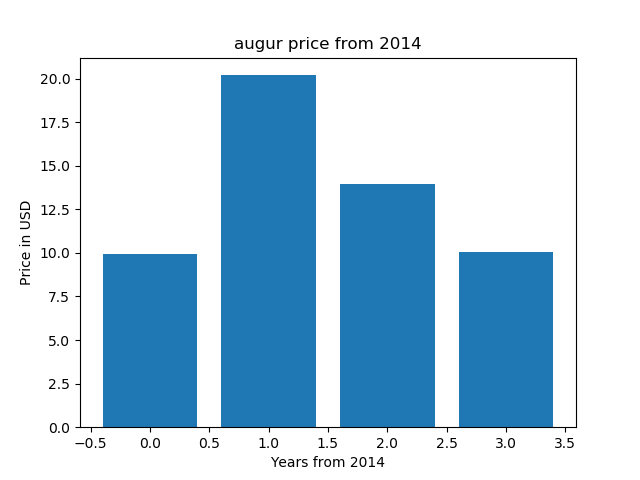
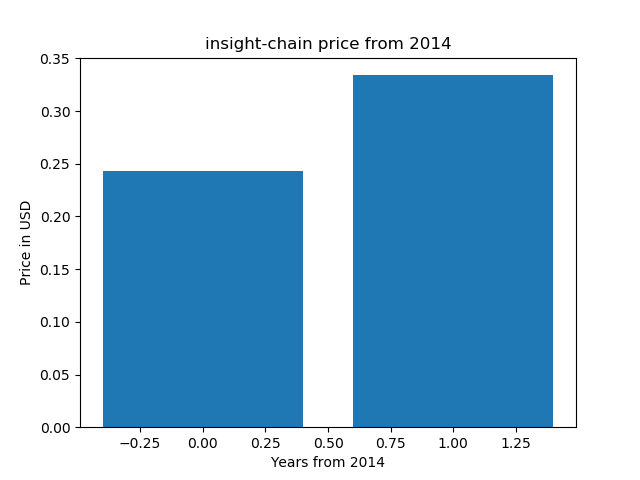
first commit

diff --git a/example.py b/example.py
@@ -10,7 +10,7 @@ from time import gmtime, strftime
 import matplotlib.pyplot as plt
 
 enddate = strftime("%Y%m%d", gmtime())
-r  = requests.get("https://coinmarketcap.com/currencies/augur/historical-data/?start=20140101&end={0}".format(enddate))
+r  = requests.get("https://coinmarketcap.com/currencies/insight-chain/historical-data/?start=20140101&end={0}".format(enddate))
 data = r.text
 
 soup = BeautifulSoup(data, "html.parser")
@@ -44,7 +44,7 @@ print(x)
 
 x = list(range(0, len(prices)))
 
-plt.title('augur price from 2014')
+plt.title('insight-chain price from 2014')
 plt.ylabel('Price in USD')
 plt.xlabel('Years from 2014')
 plt.bar(x, prices)

diff --git a/README.md b/README.md
@@ -1,6 +1,6 @@
-# augur price chart 
+# insight-chain price chart 
 
-augur price chart (matplotlib, python)
+insight-chain price chart (matplotlib, python)
 
 https://pythonprogramminglanguage.com
 
